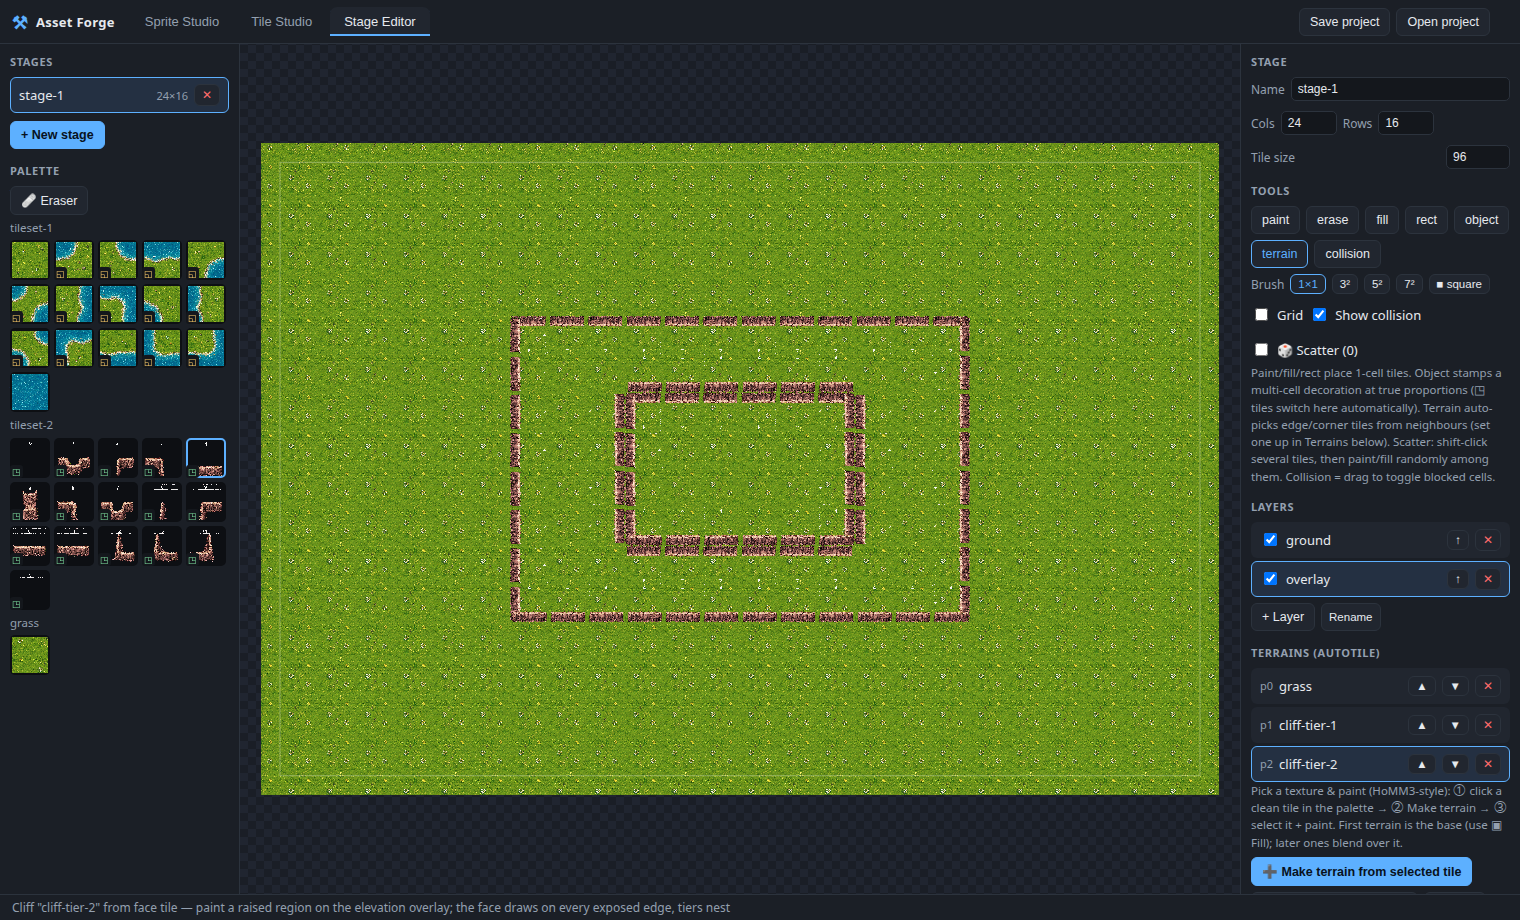
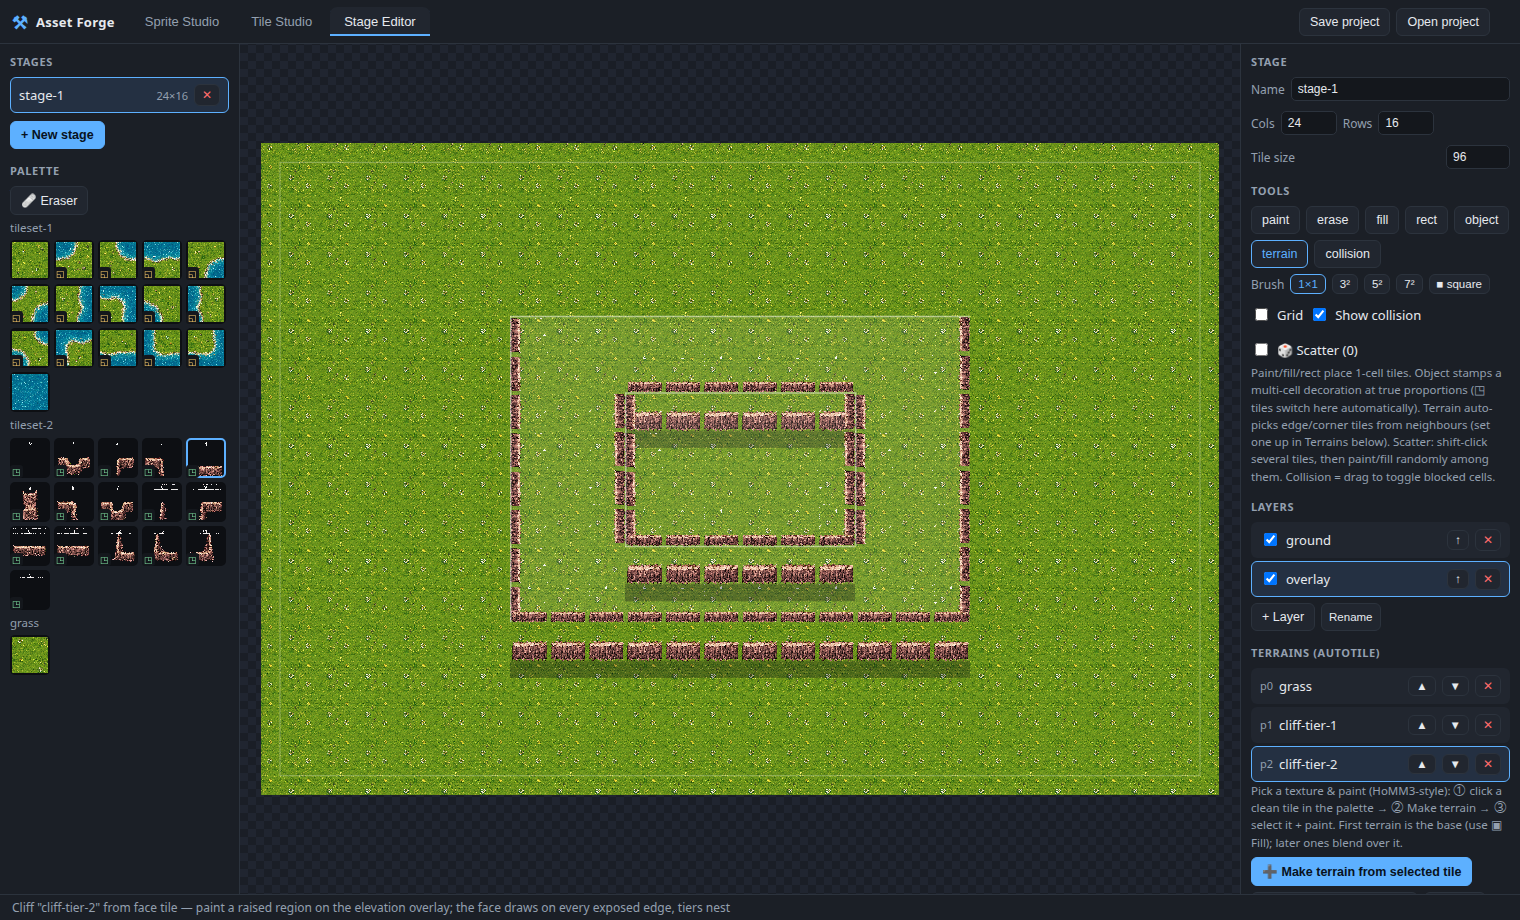
Cliffs: JRPG front-wall render (tall wall + shadow + lifted top)
The thin all-sides rim read poorly with gaps. Per the chosen look, render cliffs
RPG-Maker style: a subtly lifted plateau top with a bright north/west top-edge
highlight; a tall rock WALL dropping from the south/front edge (face tile as
top-of-wall + a derived full-cell mid-wall row below); short rotated returns on
E/W edges; and a drop shadow on the lower ground beneath the wall base. Real art,
connected full-cell walls (no gaps), clear sense of height.

- drawCliff replaces drawCliffEdges; cliffRockFill extracts/caches a full-cell
  mid-wall rock band from the face tile (lip removed, stretched).
- Validated with newcliff2 (docs/shots/43,44): two readable nested tiers.

diff --git a/src/stage/stage-editor.ts b/src/stage/stage-editor.ts
@@ -365,7 +365,7 @@ export function mountStageEditor(root: HTMLElement): Editor {
       if (layer.terrain) {
         drawWangLayer(g, layer.terrain, terrainsById, rank, (r) => L.tileImg.get(r), ts, d.cols, d.rows);
         drawCliffWalls(g, layer, d, ts);
-        drawCliffEdges(g, layer, d, ts);
+        drawCliff(g, layer, d, ts);
       }
     }
 
@@ -780,34 +780,79 @@ export function mountStageEditor(root: HTMLElement): Editor {
     }
   }
 
-  /** Draw a kind-"cliff" terrain: the hand-drawn south-face tile, rotated onto
-   * every exposed edge of the painted region (south as-drawn, west +90°, east
-   * −90°, north 180°). Uses the real art directly — no synthesis. South is drawn
-   * last so the main drop reads on top; corners get two overlaid faces. */
-  function drawCliffEdges(g: CanvasRenderingContext2D, layer: StageLayer, d: StageDoc, ts: number): void {
+  // Cache of full-cell "mid-wall" rock derived from a cliff face tile (its rock
+  // band, lip removed, stretched to fill a cell), keyed by faceRef@tileSize.
+  const cliffRockCache = new Map<string, HTMLCanvasElement>();
+  function cliffRockFill(faceRef: string, face: HTMLCanvasElement, ts: number): HTMLCanvasElement {
+    const key = `${faceRef}@${ts}`;
+    const hit = cliffRockCache.get(key);
+    if (hit) return hit;
+    const S = ts;
+    const tmp = newCanvas(S, S);
+    ctx2d(tmp).drawImage(face, 0, 0, face.width, face.height, 0, 0, S, S);
+    const data = ctx2d(tmp).getImageData(0, 0, S, S).data;
+    let top = S, bot = 0;
+    for (let y = 0; y < S; y++) for (let x = 0; x < S; x++) if (data[(y * S + x) * 4 + 3] > 120) { if (y < top) top = y; if (y > bot) bot = y; break; }
+    const fill = newCanvas(S, S);
+    if (bot > top) {
+      const h = bot - top + 1, rTop = top + Math.floor(h * 0.45), rH = Math.max(1, bot - rTop + 1);
+      ctx2d(fill).drawImage(tmp, 0, rTop, S, rH, 0, 0, S, S); // rock band → full cell
+    } else ctx2d(fill).drawImage(tmp, 0, 0);
+    cliffRockCache.set(key, fill);
+    return fill;
+  }
+
+  /** Draw a kind-"cliff" terrain as a proper JRPG cliff: a subtly lifted plateau
+   * top, a tall rock WALL dropping from the south/front edge (face tile + a
+   * mid-wall row below), short rotated returns on the E/W edges, a clean
+   * highlighted top edge to the north/west, and a drop shadow on the ground. */
+  function drawCliff(g: CanvasRenderingContext2D, layer: StageLayer, d: StageDoc, ts: number): void {
     const mem = layer.terrain;
     if (!mem) return;
+    const H = 1; // extra full-rock cells below the south edge (wall height − 1)
     for (const t of getProject().terrains) {
       if (t.kind !== "cliff" || !t.faceRef) continue;
       const face = L.tileImg.get(t.faceRef);
       if (!face) continue;
+      const rock = cliffRockFill(t.faceRef, face, ts);
       const isC = (x: number, y: number): boolean => x >= 0 && y >= 0 && x < d.cols && y < d.rows && mem[y]?.[x] === t.id;
-      const rot = (x: number, y: number, deg: number): void => {
+      const rot = (img: HTMLCanvasElement, x: number, y: number, deg: number): void => {
         g.save();
         g.translate((x + 0.5) * ts, (y + 0.5) * ts);
         g.rotate((deg * Math.PI) / 180);
-        g.drawImage(face, 0, 0, face.width, face.height, -ts / 2, -ts / 2, ts, ts);
+        g.drawImage(img, 0, 0, img.width, img.height, -ts / 2, -ts / 2, ts, ts);
         g.restore();
       };
-      for (let y = 0; y < d.rows; y++) {
-        for (let x = 0; x < d.cols; x++) {
-          if (!isC(x, y)) continue;
-          if (!isC(x, y - 1)) rot(x, y, 180); // north (back) edge
-          if (!isC(x - 1, y)) rot(x, y, 90);  // west face
-          if (!isC(x + 1, y)) rot(x, y, -90); // east face
-          if (!isC(x, y + 1)) rot(x, y, 0);   // south drop (drawn last/on top)
+      // 1) subtle lift on the plateau top
+      g.fillStyle = "rgba(255,249,232,0.10)";
+      for (let y = 0; y < d.rows; y++) for (let x = 0; x < d.cols; x++) if (isC(x, y)) g.fillRect(x * ts, y * ts, ts, ts);
+      // 2) drop shadow on the lower ground just beneath the wall base (the south
+      //    wall spans rows e+1..e+H below a plateau edge at row e; shadow at e+H+1)
+      g.fillStyle = "rgba(18,16,26,0.30)";
+      for (let y = 0; y < d.rows; y++) for (let x = 0; x < d.cols; x++) {
+        if (isC(x, y)) continue;
+        if (isC(x, y - 1 - H) && !isC(x, y - 1)) g.fillRect(x * ts, y * ts, ts, ts * 0.45); // under south wall base
+      }
+      // 3) walls + returns
+      for (let y = 0; y < d.rows; y++) for (let x = 0; x < d.cols; x++) {
+        if (!isC(x, y)) continue;
+        if (!isC(x - 1, y)) rot(face, x, y, 90);  // west return
+        if (!isC(x + 1, y)) rot(face, x, y, -90); // east return
+        if (!isC(x, y + 1)) {                     // south front wall
+          for (let k = 1; k <= H; k++) if (y + k < d.rows && !isC(x, y + k)) g.drawImage(rock, 0, 0, rock.width, rock.height, x * ts, (y + k) * ts, ts, ts);
+          rot(face, x, y, 0); // top-of-wall (lip + rock) in the edge cell, on top
         }
       }
+      // 4) bright top-edge highlight to the north & west (the "lifted" read)
+      g.strokeStyle = "rgba(255,255,255,0.45)";
+      g.lineWidth = Math.max(1.5, ts * 0.04);
+      g.beginPath();
+      for (let y = 0; y < d.rows; y++) for (let x = 0; x < d.cols; x++) {
+        if (!isC(x, y)) continue;
+        if (!isC(x, y - 1)) { g.moveTo(x * ts, y * ts + g.lineWidth / 2); g.lineTo((x + 1) * ts, y * ts + g.lineWidth / 2); }
+        if (!isC(x - 1, y)) { g.moveTo(x * ts + g.lineWidth / 2, y * ts); g.lineTo(x * ts + g.lineWidth / 2, (y + 1) * ts); }
+      }
+      g.stroke();
     }
   }
 
